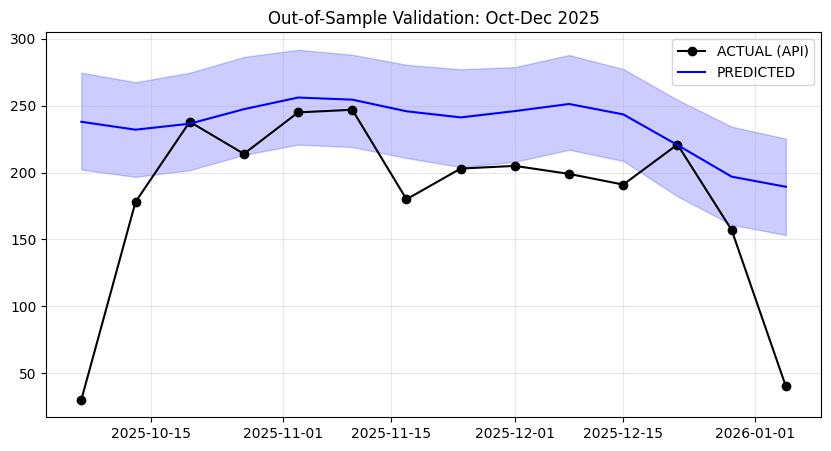
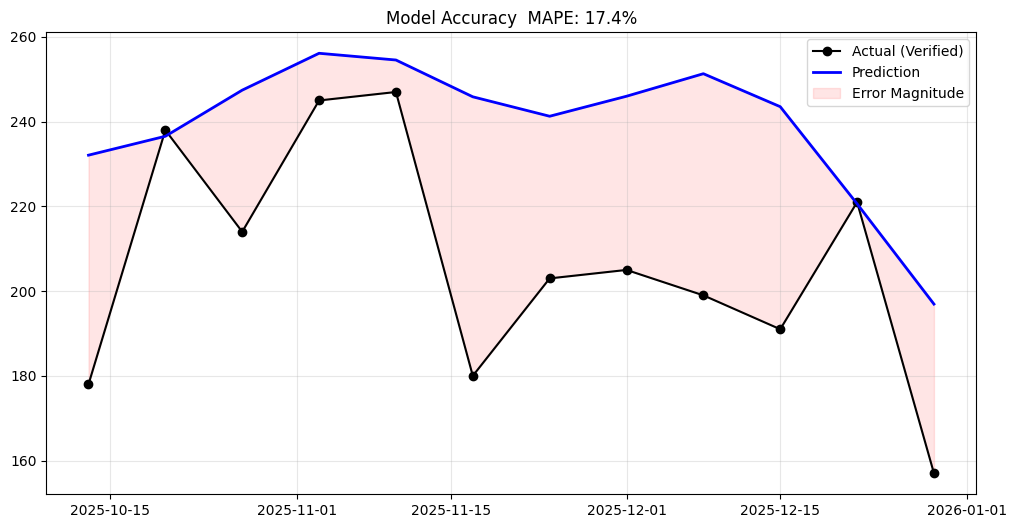
feat: update README to reflect pipeline implementation, finalized Prophet model, and include prediction results image.

diff --git a/README.md b/README.md
@@ -1,7 +1,7 @@
 # Supply Risk Monitor: Predictive Blood Demand & Supply Forecasting  
 ### *Trauma-driven demand forecasting and supply risk early warning for Canada*
 
-![Status](https://img.shields.io/badge/Current_Phase-Prototype_&_Ingestion-orange?style=for-the-badge&logo=python)
+![Status](https://img.shields.io/badge/Current_Phase-Pipeline_Implementation-blue?style=for-the-badge&logo=python)
 
 Blood products are highly perishable, making effective stockpile management critical. This project aims to build a "Control Tower" to forecast trauma-driven demand and identify potential supply risks.
 
@@ -15,17 +15,27 @@ Operational teams need earlier signals for blood shortage risks. The Supply Risk
 
 ## 🚀 Current Status
 
-The project is currently in the **Prototyping & Ingestion** phase. The codebase is primarily **Notebook-driven**.
+The project has moved into the **Pipeline Implementation** phase.
 
 ### ✅ Implemented Features
-*   **Data Ingestion**: Automated download and standardization of National Collision Database (NCDB) data (1999-2021) from the Open Canada API.
-*   **Forecasting Model**: A Baseline **Facebook Prophet** model has been trained and tested to capture trends and seasonality in collision data.
-*   **Data Analysis**: Exploratory analysis notebooks for Toronto and NCDB datasets.
+*   **Data Ingestion**: Automated download and standardization of National Collision Database (NCDB) data from the Open Canada API.
+*   **Forecasting Model**: **Finalized Baseline Facebook Prophet model**. The model has been trained and validated to capture trends and seasonality in collision data.
+    
+    ![Prediction Results](docs/Prediction_result_test/pred_res.png)
 
-### �  Work in Progress / Roadmap
-*   **Hybrid Engine**: Integration of XGBoost for residual error correction (currently planned/claimed but not yet implemented in code).
-*   **Genetic Algorithm**: Hyperparameter optimization for the hybrid model.
-*   **Productionization**: Refactoring notebook logic (`src/models`, `src/transform`) into executable Python scripts (`.py`).
+*   **Data Analysis**: Exploratory analysis notebooks for Toronto and NCDB datasets.
+    
+    ![Annual Trend](docs/images/Annual%20Collision%20Trend.png)
+    *Annual Collision Trend showing historical patterns.*
+    
+    ![Weekly Pattern](docs/images/Weekly%20Collision%20Pattern.png)
+    *Weekly aggregation revealing clear seasonality.*
+
+### 🚧  Work in Progress
+*   **Automated Retraining Pipeline**: Implementing a quarterly workflow that:
+    1.  Fetches fresh Toronto collision data every 3 months.
+    2.  Retrains the Prophet model with the updated dataset.
+    3.  Generates demand forecasts for the next 3-month window.
 
 ---
 
@@ -67,6 +77,5 @@ Currently, the workflow is executed via Jupyter Notebooks:
 
 ## 🎯 Objectives (Future)
 
-*   Build a robust trauma-driven **Demand Index**.
-*   Forecast short-horizon risk to support proactive collection planning.
-*   Operationalize a decision metric: the **Risk Coverage Ratio**.
+*   **Model Optimization**: Explore efficiency improvements and alternative algorithms to enhance the current Prophet model.
+*   **Risk Metrics**: Operationalize the **Risk Coverage Ratio** for decision support.
